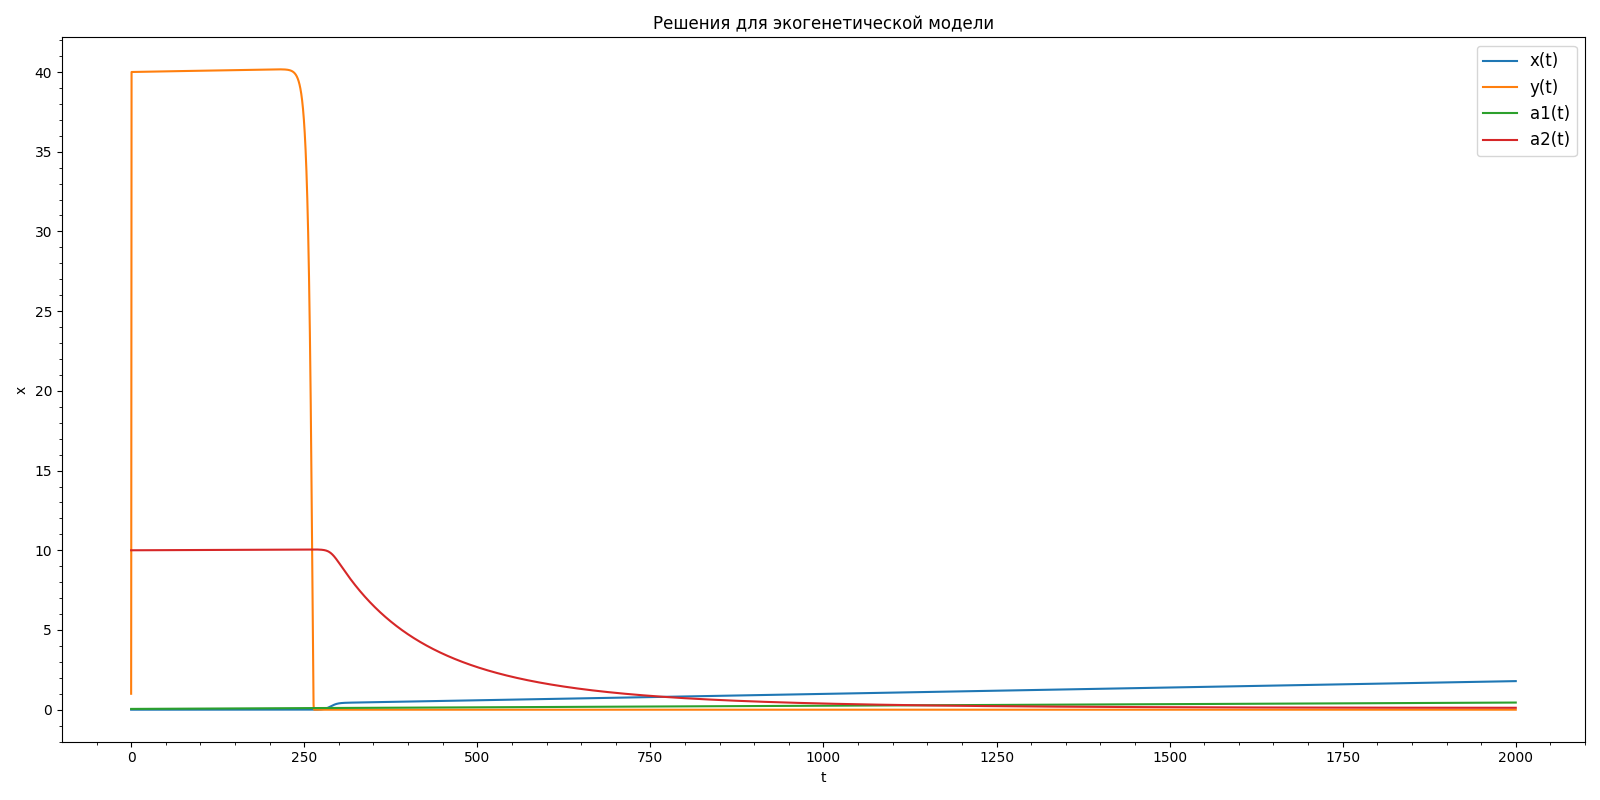
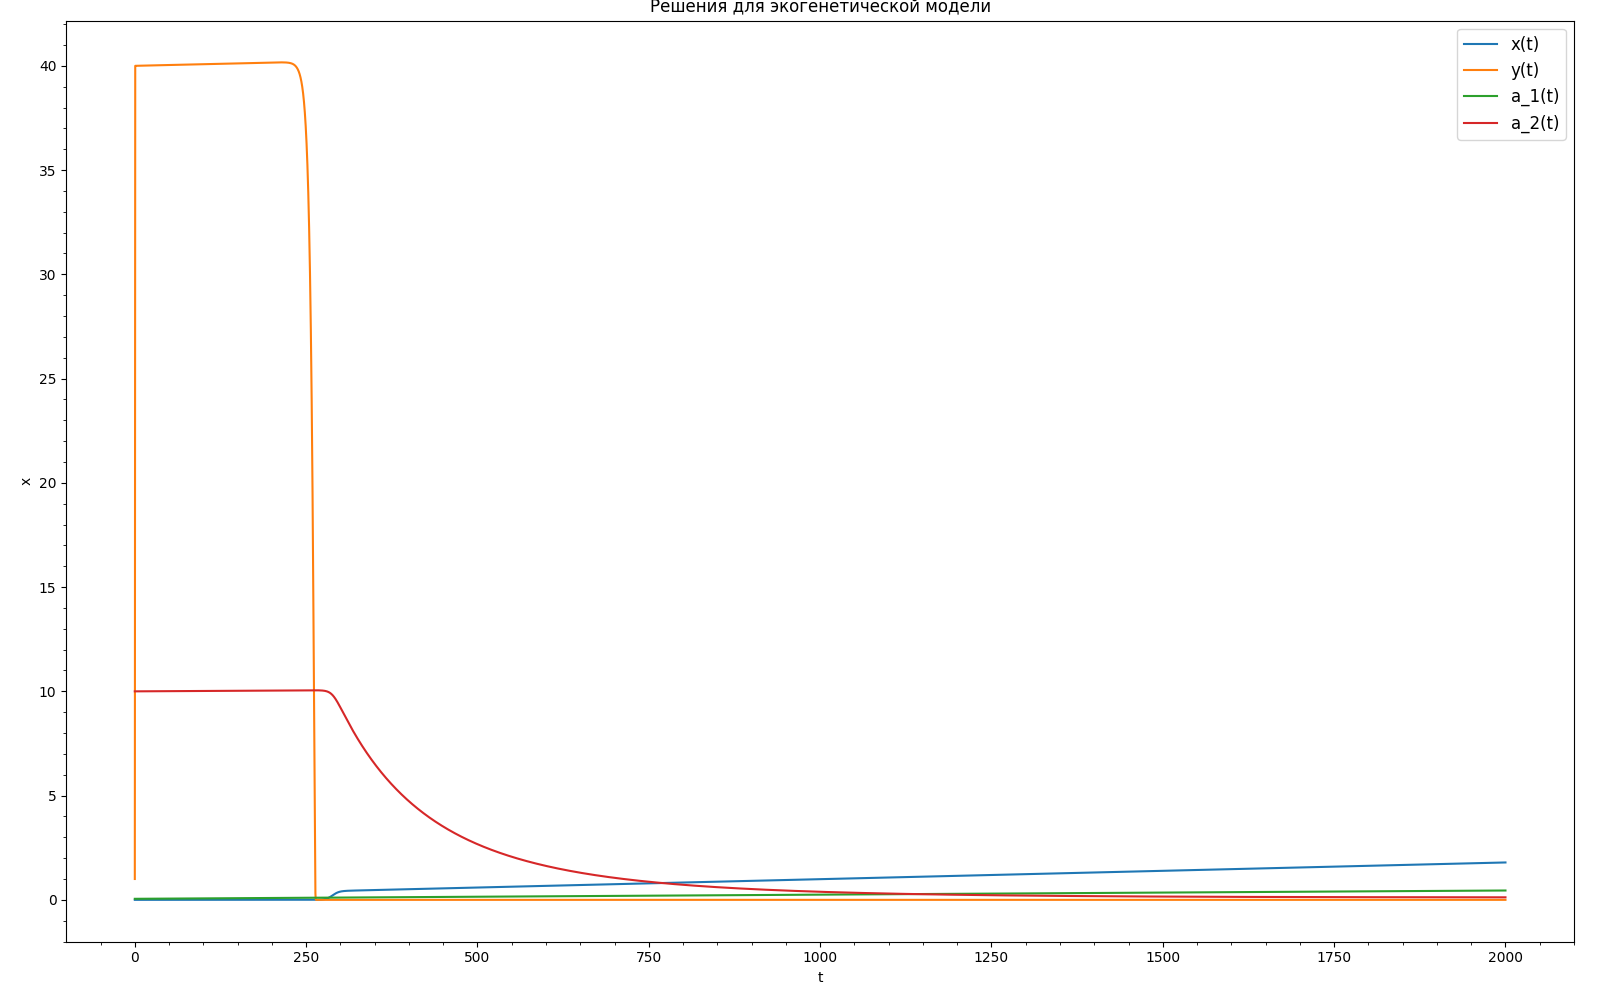
add modified model

diff --git a/7_lab/ecomodel.py b/7_lab/ecomodel.py
@@ -37,7 +37,6 @@ def print_jacobian():
     print(jacobian)
     return jacobian
 
-
 def jacobian(vec):
     x, y, a_1, a_2 = vec[0], vec[1], vec[2], vec[3]
 
@@ -74,35 +73,82 @@ def method_Rosenbrok_3_order(start_vector, h, num_steps):
         result[i + 1] = result[i] + p_1 * k_1 + p_2 * k_2 + p_3 * k_3
     return result
 
-def draw_Rosenbrok_result(result, t):
+def draw_Rosenbrok_result(result, t, modified):
     result = result.T
-    plt.figure(figsize=[16, 8])
-
-    labels = ["x(t)", "y(t)", "a1(t)", "a2(t)"]
     
-    for i in range(len(result)):
-        plt.plot(t, result[i], label=labels[i])
-
-    plt.title('Решения для экогенетической модели')
-
+    plt.figure(figsize=[16, 10])
     plt.xlabel("t")
     plt.ylabel("x")
     plt.minorticks_on()
     plt.tight_layout()
-    plt.legend(loc = 'best', fontsize = 12)
-    plt.savefig('images/solve.png')
     
+    labels = ["x(t)", "y(t)", "a_1(t)", "a_2(t)"]
+    
+    for i in range(len(result)):
+        plt.plot(t, result[i], label=labels[i])
+
+    plt.legend(loc = 'best', fontsize = 12)
+    
+    if(modified):
+        plt.title('Решения для модифицированной экогенетической модели')
+        plt.savefig('images/modified_solve.png')
+    else:
+        plt.title('Решения для экогенетической модели')
+        plt.savefig('images/solve.png')
+        
     return
 
+#=====================================================================================
+
+def print_jacobian_modified():
+    x = sp.Symbol('x')
+    y = sp.Symbol('y')
+    a_1 = sp.Symbol('a_1')
+    a_2 = sp.Symbol('a_2')
+    system_matrix = Matrix([x * (2 * a_1 - 0.5 * x - y * (a_1 ** 3) * (a_2 ** (-3))), 
+                           y * (2 * a_2 - 0.5 * y - x * (a_2 ** 3) * (a_1 ** (-3))), 
+                           eps * (2 - 3 * y * a_1 ** (2) * a_2 ** (-3)), 
+                           eps * (2 - 3 * x * a_2 ** (2) * a_1 ** (-3))])
+    variables = Matrix([x, y, a_1, a_2])
+    jacobian = system_matrix.jacobian(variables)
+    print(jacobian)
+    return jacobian
+
+def func_modified(vec):
+    x, y, a_1, a_2 = vec[0], vec[1], vec[2], vec[3]
+
+    return np.array([x * (2 * a_1 - 0.5 * x - y * (a_1 ** 3) * (a_2 ** (-3))), 
+                     y * (2 * a_2 - 0.5 * y - x * (a_2 ** 3) * (a_1 ** (-3))),
+                     eps * (2 - 3 * y * a_1 ** (2) * a_2 ** (-3)),
+                     eps * (2 - 3 * x * a_2 ** (2) * a_1 ** (-3))])
+
+def jacobian_modified(vec):
+    x, y, a_1, a_2 = vec[0], vec[1], vec[2], vec[3]
+
+    return np.array([[-a_1 ** 3 * y * a_2 ** (-3) + 2 * a_1 - x, -a_1 ** 3 * x * a_2 ** (-3), x * (-3 * (a_1 ** 2) * y * a_2 ** (-3) + 2), 3 * a_1 ** 3 * x * y * a_2 ** (-4)], 
+                     [-a_2 ** 3 * y * a_1 ** (-3), -a_2 ** 3 * x * (a_1 ** (-3)) + 2*a_2 - y, 3 * (a_2 ** 3) * x * y * a_1 ** (-4), y * (-3 * a_2 ** 2 * x * a_1 ** (-3) + 2)], 
+                     [0, -0.03 * (a_1 ** 2) * a_2 ** (-3), -0.06 * y * a_1 * a_2 ** (-3), 0.09 * (a_1 ** 2) * y * a_2 ** (-4)], 
+                     [-0.03 * (a_2 ** 2) * a_1 ** (-3), 0, 0.09 * (a_2 ** 2) * x * a_1 ** (-4), -0.06 * x * a_2 * a_1 ** (-3)]])
+
+def D_n_modified(vec, h):
+    return np.eye(4) + a * h * jacobian_modified(vec)
+
+#=====================================================================================
+
 def main():
-    print_jacobian()
+    # print_jacobian()
     h = 0.01
     num_steps = int(T_k / h) + 1
     t = np.linspace(0, T_k, num_steps)
     
     start_vector = np.array([x_0, y_0, a_10, a_20])
     result = method_Rosenbrok_3_order(start_vector, h, num_steps)
-    draw_Rosenbrok_result(result, t)
+    draw_Rosenbrok_result(result, t, False)
+    
+    # print_jacobian_modified()
+    result = method_Rosenbrok_3_order(start_vector, h, num_steps)
+    draw_Rosenbrok_result(result, t, True)
+    
     return
 
 if __name__ == "__main__":

diff --git a/7_lab/README.md b/7_lab/README.md
@@ -27,3 +27,18 @@ $E -$единичная матрица, $~I -$матрица Якоби.
 <p align="center">
     <img src = "./images/solve.png" width = "900" height = "420" align = "center"/>
 </p>
+
+Для модифицированного уравнения:
+
+$$\begin{equation*} 
+    \begin{cases}
+        \dot{x} = x(2\alpha_1 - 0.5x - \alpha_1^3 \alpha_2^{-3}y), \\
+        \dot{y} = y(2\alpha_2 - \alpha_1^{-3}\alpha_2^3x - 0.5y),\\
+        \dot{\alpha_1} = \varepsilon(2 - 2\alpha_1^2 \alpha_2^{-3}y), \\
+        \dot{\alpha_2} = \varepsilon(2 - 2\alpha_1^{-3}\alpha_2^2x)
+    \end{cases}
+\end{equation*}$$
+
+<p align="center">
+    <img src = "./images/modified_solve.png" width = "900" height = "420" align = "center"/>
+</p>
